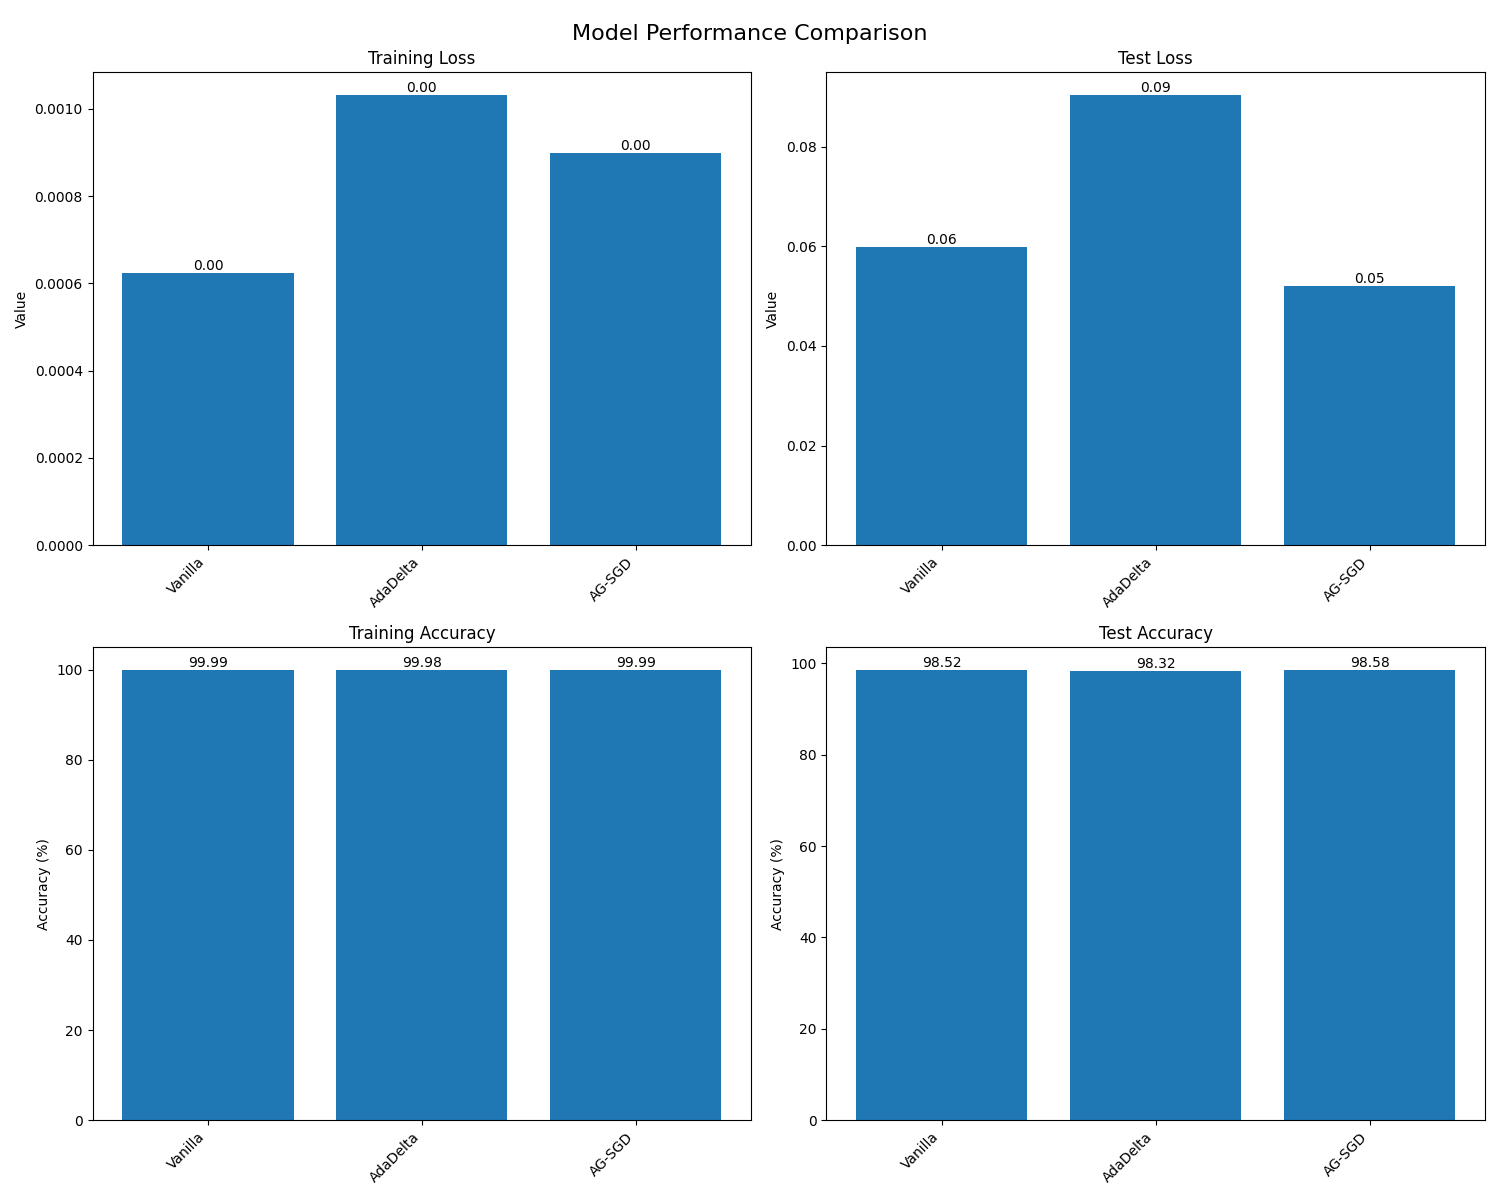
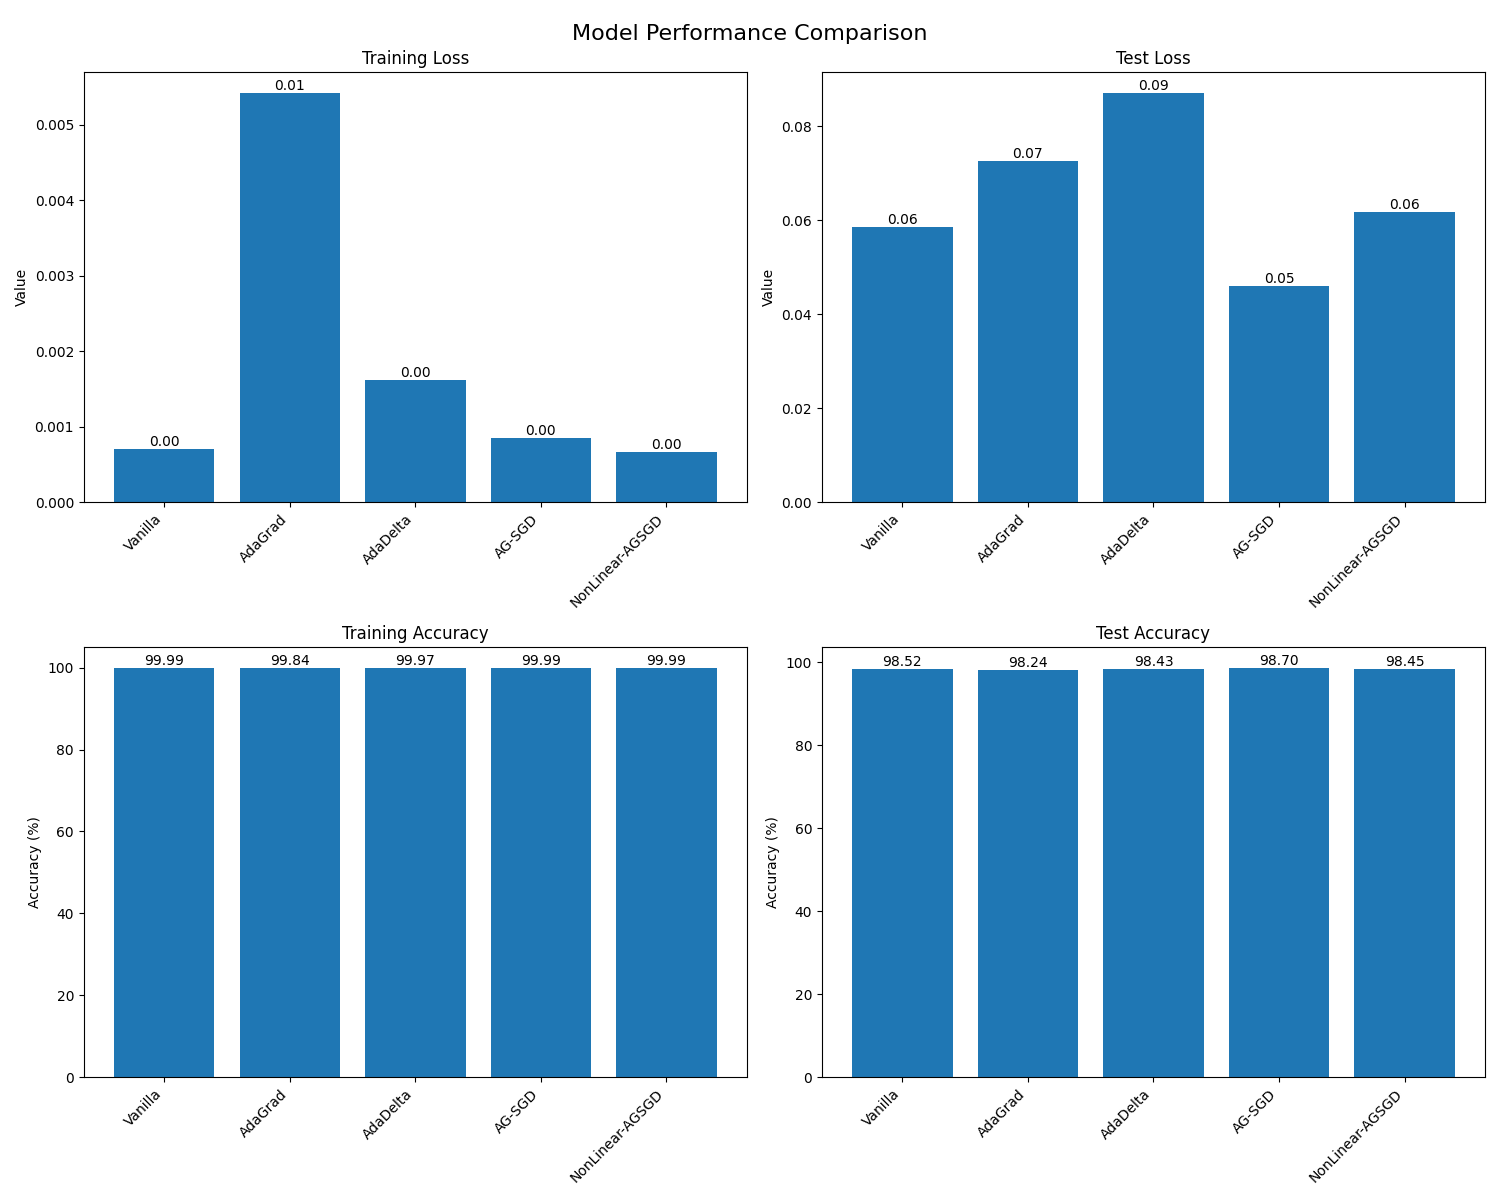
donedone

diff --git a/aem pit/optimizers/nonlinear_ag_sgd.py b/aem pit/optimizers/nonlinear_ag_sgd.py
@@ -3,47 +3,94 @@ import math
 from .ag_sgd import AGSGDOptimizer
 
 class NonLinearAGSGDOptimizer(AGSGDOptimizer):
-    def __init__(self, params, s=1.0, d=0.5, iter_freq=5, k=5.0):
-        super().__init__(params, s, d, iter_freq)
-        self.k = k
+    def __init__(self, params, s=1.0, d=0.5, iter_freq=5, k=5.0, min_s=1e-4, max_s=5.0):
+        if not isinstance(params, list):
+            params = [{'params': params}]
+
+        defaults = dict(s=s, d=d, iter_freq=iter_freq, k=k, min_s=min_s, max_s=max_s)
+        for param_group in params:
+            for key in defaults:
+                if key not in param_group:
+                    param_group[key] = defaults[key]
+
+        super().__init__(params, defaults)
 
     @torch.no_grad()
     def step(self, closure=None):
         loss = closure() if closure else None
         for group in self.param_groups:
-            s, d, iter_freq = group['s'], group['d'], group['iter_freq']
+            s, d, iter_freq, k = group['s'], group['d'], group['iter_freq'], group['k']
+            min_s, max_s = group['min_s'], group['max_s']
+
+            if 'step_count' not in group:
+                group['step_count'] = 0
             group['step_count'] += 1
             step_count = group['step_count']
 
             new_grads, param_pairs = [], []
             for p in group['params']:
-                if p.grad is None: continue
+                if p.grad is None:
+                    continue
                 new_grads.append(p.grad.detach().clone())
                 param_pairs.append(p)
 
             if self.prev_grads is None:
-                self.prev_grads = new_grads
+                if not hasattr(self, '_prev_grads'):
+                    self._prev_grads = {}
+                self._prev_grads[id(group)] = new_grads
                 for p, g in zip(param_pairs, new_grads):
                     p.add_(g, alpha=-s)
                 return loss
 
-            angle_vals = []
-            for pg, cg in zip(self.prev_grads, new_grads):
-                dot = (pg * cg).sum()
-                angle_vals.append(dot / (pg.norm() * cg.norm() + 1e-8))
-            angle = torch.acos(torch.mean(torch.tensor(angle_vals)).clamp(-1, 1)) / math.pi
+            prev_grads = self._prev_grads.get(id(group))
+            if prev_grads is None:
+                self._prev_grads[id(group)] = new_grads
+                for p, g in zip(param_pairs, new_grads):
+                    p.add_(g, alpha=-s)
+                return loss
 
-            k = self.k
+            if step_count < 5:
+                for p, g in zip(param_pairs, new_grads):
+                    p.add_(g, alpha=-s * 0.5)
+                self._prev_grads[id(group)] = new_grads
+                return loss
+
+            # Compute cosine similarities with stability checks
+            angle_vals = []
+            for pg, cg in zip(prev_grads, new_grads):
+                pg_norm = pg.norm()
+                cg_norm = cg.norm()
+                if pg_norm < 1e-8 or cg_norm < 1e-8:
+                    angle_vals.append(torch.tensor(1.0, device=pg.device))  # treat as aligned
+                else:
+                    dot = (pg * cg).sum()
+                    cos_sim = dot / (pg_norm * cg_norm + 1e-8)
+                    angle_vals.append(cos_sim.clamp(-1.0, 1.0))
+
+            mean_cos_raw = torch.mean(torch.stack(angle_vals))
+            mean_cos = mean_cos_raw.clamp(-1, 1)
+            angle_raw = torch.acos(mean_cos) / math.pi
+
+            # Exponential moving average smoothing of angle
+            angle_ema = group.get('angle_ema', angle_raw)
+            angle = 0.9 * angle_ema + 0.1 * angle_raw
+            group['angle_ema'] = angle
+
             coef_pg = s * (1 + (-2 / (1 + torch.exp(-k * (2 * angle - 1)))))
             coef_cg = s - coef_pg
 
-            for p, pg, cg in zip(param_pairs, self.prev_grads, new_grads):
+            for p, pg, cg in zip(param_pairs, prev_grads, new_grads):
                 delta = coef_pg * pg + coef_cg * cg
                 p.add_(delta, alpha=-1)
 
             if step_count % iter_freq == 0:
-                group['s'] *= d
+                # Adapt step size s based on alignment
+                if mean_cos > 0.9:  # well-aligned gradients, increase s slightly
+                    group['s'] = min(max_s, s * 1.01)
+                else:  # less alignment, decay s exponentially with margin
+                    decay_factor = torch.exp(-5 * (1 - mean_cos))
+                    group['s'] = max(min_s, s * decay_factor.item())
 
-            self.prev_grads = new_grads
+            self._prev_grads[id(group)] = new_grads
 
         return loss

diff --git a/aem pit/main.py b/aem pit/main.py
@@ -19,10 +19,10 @@ def main():
 
     optimizers_to_run = {
         'Vanilla': lambda params: optim.SGD(params, lr=1),
-        #'AdaGrad': lambda params: optim.Adagrad(params, lr=1.0),
+        'AdaGrad': lambda params: optim.Adagrad(params, lr=1.0),
         'AdaDelta': lambda params: optim.Adadelta(params, lr=1.0),
         'AG-SGD': lambda params: AGSGDOptimizer(params, s=1, d=0.999, iter_freq=10),
-        #'NonLinear-AGSGD': lambda params: NonLinearAGSGDOptimizer(params, s=1, d=0.999, iter_freq=10, k=20.0),
+        'NonLinear-AGSGD': lambda params: NonLinearAGSGDOptimizer(params, s=0.5, d=0.999, iter_freq=10, k=20.0),  # Much slower decay
     }
 
     all_costs = {}
